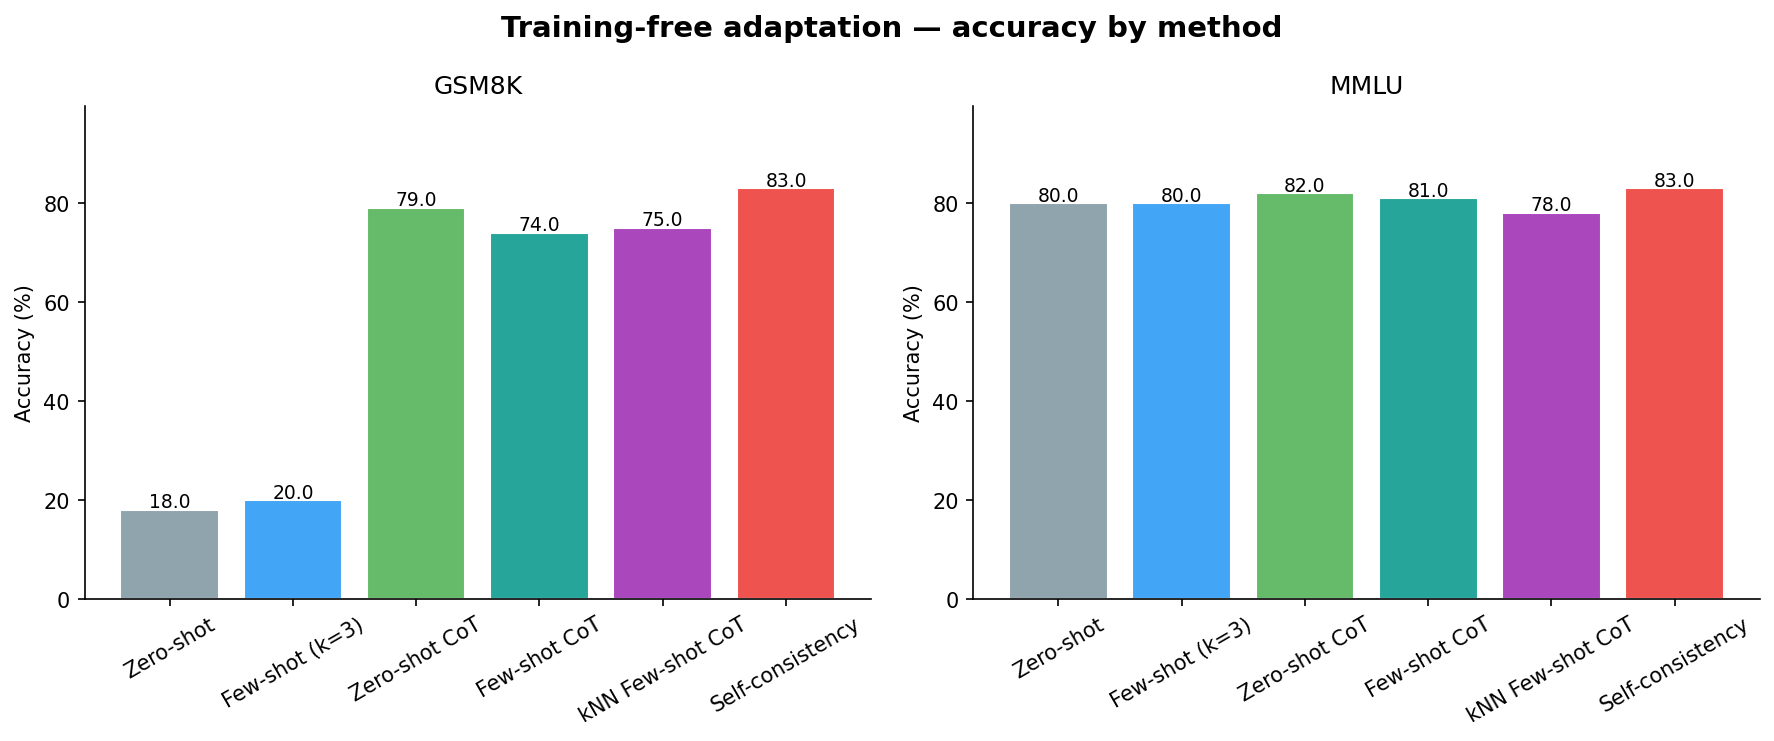
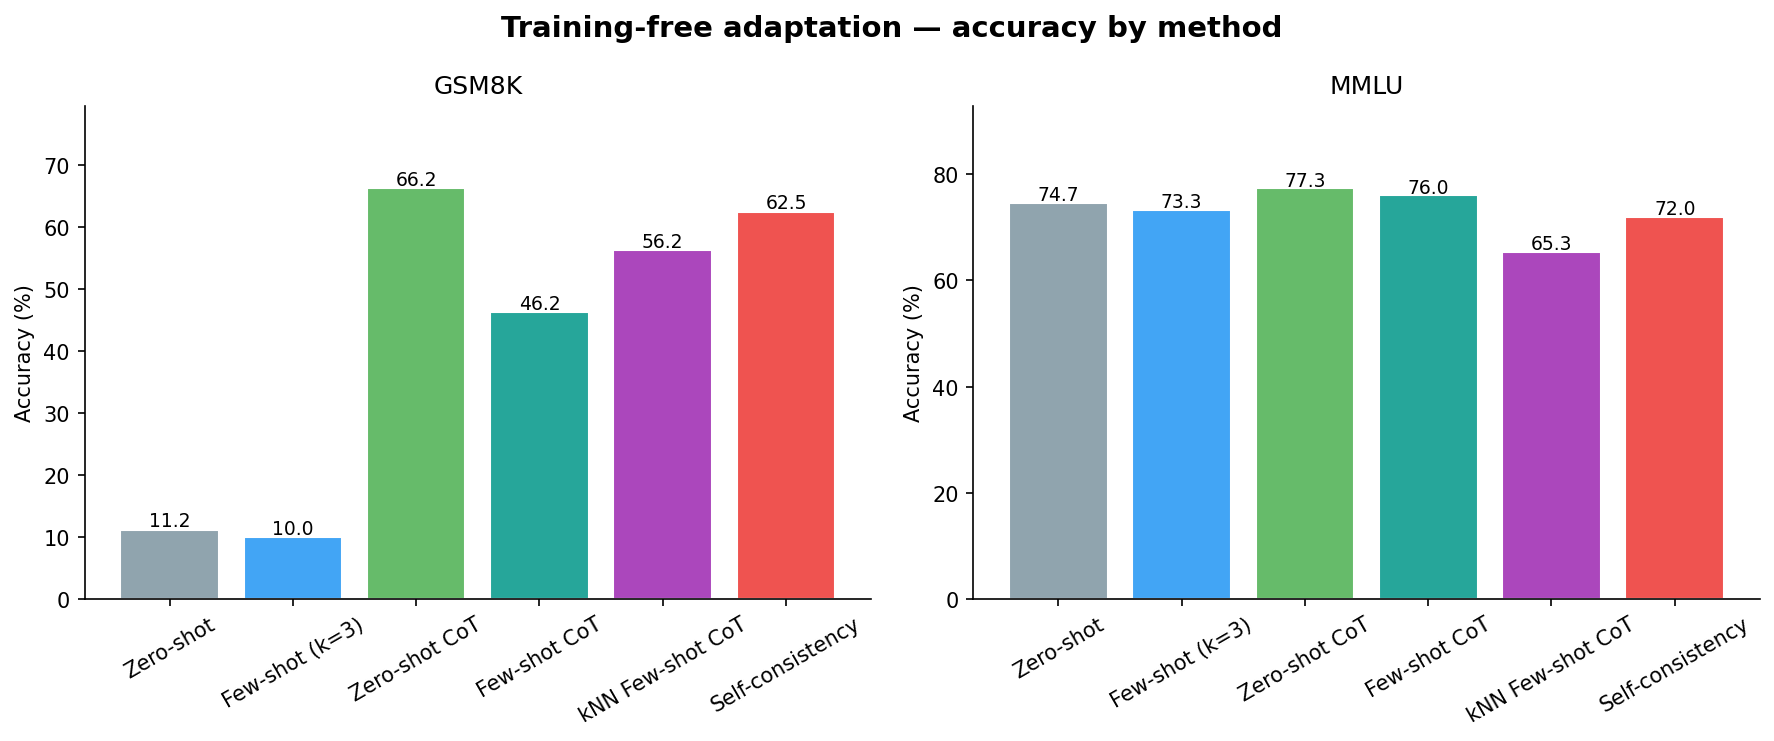
finalize: real Qwen2.5-1.5B results and updated README

diff --git a/src/model.py b/src/model.py
@@ -4,7 +4,7 @@ import torch
 from transformers import AutoTokenizer, AutoModelForCausalLM
 
 
-MODEL_ID = "Qwen/Qwen2.5-3B-Instruct"
+MODEL_ID = "Qwen/Qwen2.5-1.5B-Instruct"
 
 
 class FrozenLLM:

diff --git a/README.md b/README.md
@@ -1,6 +1,6 @@
 # Training-free адаптация LLM: насколько далеко можно выжать замороженную модель
 
-> **Сравнение методов адаптации без дообучения (zero-shot, few-shot, CoT, self-consistency, kNN-демонстрации) на задачах рассуждения и знаний. Модель — Qwen2.5-3B-Instruct.**
+> **Сравнение методов адаптации без дообучения (zero-shot, few-shot, CoT, self-consistency, kNN-демонстрации) на задачах рассуждения и знаний. Модель — Qwen2.5-1.5B-Instruct.**
 
 [![Python 3.10+](https://img.shields.io/badge/python-3.10+-blue.svg)](https://www.python.org/)
 [![License: MIT](https://img.shields.io/badge/License-MIT-yellow.svg)](LICENSE)
@@ -8,7 +8,7 @@
 
 ## Обзор
 
-Модель **не дообучается ни на одном этапе** — только инференс. Вопрос: сколько качества можно получить от замороженной `Qwen2.5-3B-Instruct` одним лишь промптингом? Сравниваются шесть training-free методов на двух типах задач — **рассуждение** (GSM8K) и **знания** (подмножество MMLU), — чтобы увидеть, где каждый метод работает, а где нет.
+Модель **не дообучается ни на одном этапе** — только инференс. Вопрос: сколько качества можно получить от замороженной `Qwen2.5-1.5B-Instruct` одним лишь промптингом? Сравниваются шесть training-free методов на двух типах задач — **рассуждение** (GSM8K) и **знания** (подмножество MMLU), — чтобы увидеть, где каждый метод работает, а где нет.
 
 **Исследуемые методы:**
 | Метод | Идея |
@@ -20,31 +20,40 @@
 | kNN Few-shot CoT | Демонстрации выбираются по близости эмбеддингов к вопросу |
 | Self-consistency | CoT сэмплируется N раз, ответ — по большинству голосов |
 
-> ⚠️ **Числа ниже — иллюстративные заглушки** до реального прогона. Запусти ноутбук в Colab, и `results/results.json` перезапишется реальными данными.
-
 ---
 
-## Результаты (заглушки до прогона)
+## Результаты
+
+> Реальный прогон на GPU T4: GSM8K (80 задач) и MMLU (5 категорий × 15). Воспроизводится через ноутбук.
 
 | Метод | GSM8K (рассужд.) | MMLU (знания) | Ср. токенов (GSM8K) |
 |-------|:---:|:---:|:---:|
-| Zero-shot | 18.0 | 80.0 | 3 |
-| Few-shot (k=3) | 20.0 | 80.0 | 3 |
-| Zero-shot CoT | 79.0 | 82.0 | 250 |
-| Few-shot CoT | 74.0 | 81.0 | 160 |
-| kNN Few-shot CoT | 75.0 | 78.0 | 155 |
-| Self-consistency | 83.0 | 83.0 | 1200 |
+| Zero-shot | 11.2 | 74.7 | 2 |
+| Few-shot (k=3) | 10.0 | 73.3 | 2 |
+| **Zero-shot CoT** | **66.2** | **77.3** | 261 |
+| Few-shot CoT | 46.2 | 76.0 | 129 |
+| kNN Few-shot CoT | 56.2 | 65.3 | 141 |
+| Self-consistency | 62.5 | 72.0 | 1269 |
 
-> **Вопросы, на которые отвечает эксперимент:**
-> - Насколько chain-of-thought помогает рассуждению против знаний (ожидается кратный разрыв на GSM8K и слабый эффект на MMLU).
-> - Окупается ли self-consistency своей ~5× стоимостью в токенах.
-> - Помогает ли выбор примеров по эмбеддингам (kNN) против случайных демонстраций.
+> **Ключевые выводы (часть оказалась неожиданной):**
+> - **Chain-of-thought преображает рассуждение, но почти не трогает знания.** На GSM8K «давай рассуждать пошагово» поднимает точность с 11 % до 66 % — в ~6 раз, без единого шага обучения. На MMLU, где нужен факт, а не вывод, прирост всего +2,7 п.п. Метод адаптации надо подбирать под тип задачи.
+> - **Простой zero-shot CoT обыграл все «навороченные» методы.** На GSM8K он (66,2 %) выше few-shot CoT (46,2 %), kNN (56,2 %) и даже self-consistency (62,5 %). На модели 1.5B добавление примеров и ретривала не помогло, а порой мешало.
+> - **Self-consistency не окупился.** 5 прогонов на вопрос (~1269 токенов против 261) дали *меньше*, чем один zero-shot CoT. Лучшее качество на токен — у обычного CoT.
+> - **kNN-выбор примеров навредил**, особенно на знаниях (65,3 % против 74,7 % у zero-shot) — похоже, близкие по форме примеры сбивали маленькую модель.
 
 ### Графики
 
-| Точность по методам | Качество vs стоимость | Кривая k-shot |
-|:---:|:---:|:---:|
-| ![acc](results/figures/accuracy_by_method.png) | ![cost](results/figures/accuracy_vs_cost.png) | ![kshot](results/figures/kshot_curve.png) |
+| Точность по методам | Качество vs стоимость |
+|:---:|:---:|
+| ![acc](results/figures/accuracy_by_method.png) | ![cost](results/figures/accuracy_vs_cost.png) |
+
+---
+
+## Результаты vs. ожидания
+
+- **Ожидалось и подтвердилось:** chain-of-thought даёт кратный прирост именно на рассуждении — это устойчивый, многократно описанный эффект.
+- **Оказалось неожиданным:** на модели 1.5B более сложные и дорогие методы (few-shot CoT, kNN, self-consistency) *не* обогнали простой zero-shot CoT. Это согласуется с тем, что такие приёмы scale-dependent — они «включаются» на больших моделях (7B+), а на маленькой ещё не дают выигрыша.
+- **Вывод:** для небольшой модели сначала стоит брать самый простой приём рассуждения; усложнение не бесплатно и здесь не окупилось.
 
 ---
 
@@ -64,7 +73,6 @@
 │   └── prompt_adaptation_colab.ipynb
 ├── results/
 │   ├── results.json
-│   ├── kshot.json
 │   └── figures/
 ├── report/              # научный отчёт + резюме (RU/EN)
 ├── run_all.py           # весь пайплайн целиком
@@ -77,7 +85,7 @@
 
 ### Google Colab (рекомендуется)
 
-Нажми бейдж **Open In Colab**. Зависимости ставятся автоматически, всё работает на бесплатном T4.
+Нажми бейдж **Open In Colab**. Зависимости ставятся автоматически, всё работает на бесплатном T4 (~1 час).
 
 ### Локально
 
@@ -95,9 +103,9 @@ python run_all.py --quick                  # быстрый смоук-тест
 
 | Параметр | Значение |
 |----------|----------|
-| Модель | Qwen/Qwen2.5-3B-Instruct (заморожена) |
-| Задачи | GSM8K · MMLU (5 категорий) |
-| Few-shot k | 3 (по умолчанию) |
+| Модель | Qwen/Qwen2.5-1.5B-Instruct (заморожена) |
+| Задачи | GSM8K (80 задач) · MMLU (5 категорий × 15) |
+| Few-shot k | 3 |
 | Self-consistency | 5 сэмплов, T=0.7, голосование большинством |
 | Эмбеддер для kNN | all-MiniLM-L6-v2 |
 | GPU | NVIDIA T4 (бесплатный Colab) |
@@ -106,10 +114,10 @@ python run_all.py --quick                  # быстрый смоук-тест
 
 ## Что я бы сделал дальше
 
-1. **Полные датасеты + несколько сидов** — подтвердить порядок методов вне статистического шума.
-2. **Контраст задач** — добавить чисто фактологическую (TriviaQA) и чисто логическую (BBH) задачи, чтобы резче развести «рассуждение vs знания».
-3. **Лучшие стратегии выбора примеров** — сравнить kNN с разнообразящими методами (MMR, кластеризация) и порядком примеров.
-4. **Автоматический подбор промптов** — APE / промпт-оптимизация вместо ручных шаблонов.
+1. **Ось масштаба** — повторить на 0.5B / 3B / 7B и найти, при каком размере few-shot и self-consistency наконец обгоняют простой CoT (гипотеза о scale-dependence).
+2. **Полные датасеты + несколько сидов** — подтвердить порядок методов вне статистического шума (сейчас выборка 80/75).
+3. **Почему примеры мешают на малой модели** — менять формат, число и порядок демонстраций.
+4. **Контраст задач** — добавить чисто фактологическую (TriviaQA) и чисто логическую (BBH), чтобы резче развести «рассуждение vs знания».
 5. **Стоимость честно** — добавить латентность и денежную стоимость (токены × цена).
 
 ---